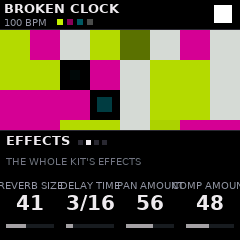
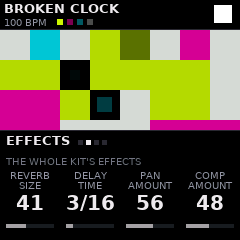
v0.7: the reverb and delay lighter; the effects pages' names on two lines
- The reverb runs at half the sample rate (it's damped well below that's top: it sounds the same), its lines half as
  long: about half its work and memory (25 KB freed). The delay the same: its line kept at half the rate (dulled to
  6.5 kHz anyway), the pair in averaged, out each new sample and the halfway point (16 KB a side freed).
- The mix no longer does what isn't needed: the punch-in filters run only while their key is down or fading (from
  rest, faded in from nothing: no click), PAN's movement only for the parts sent to it.
- Simulator, 6 s of a groove: dry 548 M -> 462 M instructions; every part sent to both 868 M -> 638 M.
- EFFECTS and TYPES: each knob's name on two lines (REVERB above SIZE...).
- render: SEND=-1,... sends every part.

Claude-Session: https://claude.ai/code/session_01BZyVyPz8sguYwRVQyNrSw4

diff --git a/app/dsp/engine.c b/app/dsp/engine.c
@@ -62,7 +62,7 @@ void engine_init(Engine *e, Groove *g)
     e->cmp_g = 1.0f; e->kill_g = 1.0f; e->gov = 1.0f;
     e->ai_ground = e->ai_light = -1;
     e->midi_ch = 9;
-    for (int c = 0; c < 2; c++) { svf_set(&e->plp[c], 18000.0f, 0.7f); svf_set(&e->php[c], 20.0f, 0.7f); op_set(&e->dlp[c], 6500.0f); op_set(&e->plp1[c], 18000.0f); }
+    for (int c = 0; c < 2; c++) { svf_set(&e->plp[c], 18000.0f, 0.7f); svf_set(&e->php[c], 20.0f, 0.7f); op_set(&e->dlp[c], 6500.0f * 2.0f);   /* (run at half the rate) */ op_set(&e->plp1[c], 18000.0f); }
     e->lp_c = e->hp_c = 0;
     e->dg_rate = e->dg_rate_t = 1.0f;
     e->smash = g->comp_t == CT_SMASH ? 1.0f : 0.0f;
@@ -599,11 +599,24 @@ void engine_block_reverb(Engine *e)
     int n = e->nblk;
     uint32_t c0 = e->clock ? e->clock() : 0;
     if (!e->rv_fed && e->rv_quiet > 8) {
-        if (e->rv_quiet == 9) { memset(e->rv_out, 0, sizeof e->rv_out); e->rv_quiet++; }
+        if (e->rv_quiet == 9) { memset(e->rv_out, 0, sizeof e->rv_out); e->rv_last[0] = e->rv_last[1] = 0; e->rv_quiet++; }
         e->rv_cost = 0;
         return;
     }
-    reverb_run(&e->rv, e->rv_in[0], e->rv_in[1], e->rv_out[0], e->rv_out[1], n);
+    {   /* at half the rate: each pair of samples in averaged, each one out followed by the halfway point to the next
+         * (half a sample late, unheard in a room) */
+        int h = n >> 1;
+        for (int k = 0; k < h; k++) {
+            e->rv_h[0][k] = 0.5f * (e->rv_in[0][2 * k] + e->rv_in[0][2 * k + 1]);
+            e->rv_h[1][k] = 0.5f * (e->rv_in[1][2 * k] + e->rv_in[1][2 * k + 1]);
+        }
+        reverb_run(&e->rv, e->rv_h[0], e->rv_h[1], e->rv_h[2], e->rv_h[3], h);
+        for (int c = 0; c < 2; c++) {
+            float prev = e->rv_last[c]; const float *y = e->rv_h[2 + c]; float *o = e->rv_out[c];
+            for (int k = 0; k < h; k++) { o[2 * k] = 0.5f * (prev + y[k]); o[2 * k + 1] = y[k]; prev = y[k]; }
+            e->rv_last[c] = prev;
+        }
+    }
     float mx = 0; for (int i = 0; i < n; i++) mx = fm_maxf(mx, fm_fabsf(e->rv_out[0][i]) + fm_fabsf(e->rv_out[1][i]));
     if (e->rv_fed || mx > 2e-5f) e->rv_quiet = 0; else if (e->rv_quiet < 9) e->rv_quiet++;
     if (e->clock) e->rv_cost = (float)(e->clock() - c0);
@@ -617,11 +630,11 @@ static float dly_samples(const Engine *e, int idx)
     return s < 4.0f ? 4.0f : s;
 }
 
-static inline float dl_read(const int16_t *b, int w, float d)
+static inline float dl_read(const int16_t *b, int w, float d)   /* (d in the sample rate's samples; the line at half) */
 {
-    float rp = (float)w - d; while (rp < 0) rp += (float)DLY_BUF;
-    int i0 = (int)rp; float fr = rp - (float)i0; if (i0 >= DLY_BUF) i0 -= DLY_BUF;
-    int i1 = i0 + 1; if (i1 >= DLY_BUF) i1 = 0;
+    float rp = (float)w - d * 0.5f; while (rp < 0) rp += (float)DLY_H;
+    int i0 = (int)rp; float fr = rp - (float)i0; if (i0 >= DLY_H) i0 -= DLY_H;
+    int i1 = i0 + 1; if (i1 >= DLY_H) i1 = 0;
     return from16(b[i0]) + (from16(b[i1]) - from16(b[i0])) * fr;
 }
 
@@ -743,11 +756,13 @@ void engine_block_mix(Engine *e, float *outL, float *outR)
             if (e->pg[p] <= 0) e->pg[p] = pgt[p];
             e->pg[p] += (pgt[p] - e->pg[p]) * kb;
             float x0 = (p == P_KICK ? kL : e->P[p].bus[0][i]) * e->pg[p], x1 = (p == P_KICK ? kR : e->P[p].bus[1][i]) * e->pg[p];
-            float pm = 0;                         /* PAN: each part moved across the field */
-            if (g->pan_t == PT_SWEEP) pm = sine_c(e->pan_ph + (float)p * 0.31f) * 0.9f;
-            else if (g->pan_t == PT_SPIN) pm = sine_c(e->pan_spin + (float)p * 0.25f) * 0.9f;
-            float a = e->lev_pan * span[p];
-            e->pan_now[p] += (pm * a - e->pan_now[p]) * 0.002f;
+            float pm = 0, a = e->lev_pan * span[p];   /* PAN: each part moved across the field (not sent: nothing to do) */
+            if (a > 0 || e->pan_now[p] != 0) {
+                if (g->pan_t == PT_SWEEP) pm = sine_c(e->pan_ph + (float)p * 0.31f) * 0.9f;
+                else if (g->pan_t == PT_SPIN) pm = sine_c(e->pan_spin + (float)p * 0.25f) * 0.9f;
+                e->pan_now[p] += (pm * a - e->pan_now[p]) * 0.002f;
+                if (a <= 0 && fm_fabsf(e->pan_now[p]) < 1e-4f) e->pan_now[p] = 0;
+            }
             if (fm_fabsf(e->pan_now[p]) > 0.0005f) {
                 float m = (x0 + x1) * 0.5f, th = (0.5f + 0.5f * clampf(e->pan_now[p], -1.0f, 1.0f)) * 0.25f, w = fm_fabsf(e->pan_now[p]);   /* (th in turns) */
                 x0 = x0 * (1.0f - w) + m * w * sine_c(th + 0.25f) * 1.41f; x1 = x1 * (1.0f - w) + m * w * sine_c(th) * 1.41f;
@@ -833,25 +848,32 @@ void engine_block_mix(Engine *e, float *outL, float *outR)
             if (!g->glitch && fm_fabsf(want - e->dt_b) > 1.0f && e->dxf >= 1.0f) { e->dt_a = e->dt_b; e->dt_b = want; e->dxf = 0; }
             if (e->dxf < 1.0f) e->dxf = fm_minf(1.0f, e->dxf + 1.0f / (0.004f * SR));
             float o[2];
+            if (!(i & 1)) { e->dl_hin = dsum; o[0] = e->dl_ho[0]; o[1] = e->dl_ho[1]; }   /* (at half the rate: each second
+                                                  * sample the pair in averaged, the line read and written; out, each
+                                                  * new sample and the halfway point to it) */
+            else {
+            float din = 0.5f * (e->dl_hin + dsum), h[2];
             if (e->dly_t_now == DT_GRAIN) {
                 float gl = clampf(e->dt_b * 0.5f, 600.0f, 4000.0f);   /* a grain: half the time, 14 to 90 ms */
-                e->dg_ph += 1.0f / gl;
+                e->dg_ph += 2.0f / gl;                /* (two samples a step) */
                 if (e->dg_ph >= 1.0f) { e->dg_ph -= 1.0f; e->dg_rate = grain_rate(e); }
                 float phb = e->dg_ph + 0.5f; if (phb >= 1.0f) phb -= 1.0f;
-                if (phb < 1.0f / gl) e->dg_rate_t = grain_rate(e);   /* (the second head's new grain) */
+                if (phb < 2.0f / gl) e->dg_rate_t = grain_rate(e);   /* (the second head's new grain) */
                 float wa = sine_c(e->dg_ph * 0.5f), wb = sine_c(phb * 0.5f); wa *= wa; wb *= wb;   /* (sin^2: the two sum to one) */
                 float da = clampf(e->dt_b + (1.0f - e->dg_rate) * e->dg_ph * gl, 8.0f, (float)(DLY_BUF - 16));
                 float db = clampf(e->dt_b + (1.0f - e->dg_rate_t) * phb * gl, 8.0f, (float)(DLY_BUF - 16));
-                for (int c = 0; c < 2; c++) o[c] = dl_read(e->dl[c], e->dw, da) * wa + dl_read(e->dl[c], e->dw, db) * wb;
+                for (int c = 0; c < 2; c++) h[c] = dl_read(e->dl[c], e->dw, da) * wa + dl_read(e->dl[c], e->dw, db) * wb;
             } else if (e->dxf >= 1.0f)
-                for (int c = 0; c < 2; c++) o[c] = dl_read(e->dl[c], e->dw, e->dt_b);
+                for (int c = 0; c < 2; c++) h[c] = dl_read(e->dl[c], e->dw, e->dt_b);
             else
-                for (int c = 0; c < 2; c++) { float a = dl_read(e->dl[c], e->dw, e->dt_a); o[c] = a + (dl_read(e->dl[c], e->dw, e->dt_b) - a) * e->dxf; }
+                for (int c = 0; c < 2; c++) { float a = dl_read(e->dl[c], e->dw, e->dt_a); h[c] = a + (dl_read(e->dl[c], e->dw, e->dt_b) - a) * e->dxf; }
             float dirt = e->dly_t_now == DT_GRAIN ? 1.0f : 0.0f;
-            float w0 = op_lp(&e->dlp[0], dsum + o[1] * dfb), w1 = op_lp(&e->dlp[1], o[0] * dfb);
+            float w0 = op_lp(&e->dlp[0], din + h[1] * dfb), w1 = op_lp(&e->dlp[1], h[0] * dfb);
             if (dirt > 0) { w0 = soft_clip(w0 * 2.2f) * 0.6f; w1 = soft_clip(w1 * 2.2f) * 0.6f; }
             e->dl[0][e->dw] = to16(soft_clip(w0)); e->dl[1][e->dw] = to16(soft_clip(w1));
-            if (++e->dw >= DLY_BUF) e->dw = 0;
+            if (++e->dw >= DLY_H) e->dw = 0;
+            for (int c = 0; c < 2; c++) { o[c] = 0.5f * (e->dl_ho[c] + h[c]); e->dl_ho[c] = h[c]; }
+            }
             e->lev_dly += (t_dly - e->lev_dly) * kb;
             float dg = e->lev_dly * e->dly_dip * 1.1f;
             outL[i] += o[0] * dg; outR[i] += o[1] * dg;
@@ -1037,17 +1059,25 @@ void engine_block_mix(Engine *e, float *outL, float *outR)
             e->hp_c += clampf((hpw > 0 ? 1.0f : 0.0f) - e->hp_c, -st, st);
             if (lpw > 0) e->lp_d += (clamp01(lpw - 1.0f) - e->lp_d) * 0.002f;
             if (hpw > 0) e->hp_d += (clamp01(hpw - 1.0f) - e->hp_d) * 0.002f;
-            if ((e->pf_cnt++ & 7) == 0) {
-                float fl = 1500.0f * fm_exp2f(-2.0f * e->lp_d), fh = 350.0f * fm_exp2f(2.0f * e->hp_d);
-                for (int c = 0; c < 2; c++) { svf_set_res(&e->plp[c], fl, 0.65f); op_set(&e->plp1[c], fl); svf_set_res(&e->php[c], fh, 0.9f); }
-            }
-            for (int c = 0; c < 2; c++) {         /* (in series: each filter run once a sample) */
-                float l = svf_lp(&e->plp[c], y[c]) * 0.7f + op_lp(&e->plp1[c], y[c]) * 0.3f;   /* (the low-pass's slope a gentle
-                                                  * one: about 9 dB an octave, no bump at its corner) */
-                y[c] += (l - y[c]) * e->lp_c;
-                float hh = svf_hp(&e->php[c], y[c]);
-                y[c] += (hh - y[c]) * e->hp_c;
-            }
+            int lon = e->lp_c > 0 || lpw > 0, hon = e->hp_c > 0 || hpw > 0;   /* (each runs only while its key is down or
+                                                  * fading: started from rest, faded in over 25 ms from nothing, it never
+                                                  * clicks) */
+            if (lon || hon) {
+                if ((e->pf_cnt++ & 7) == 0) {
+                    float fl = 1500.0f * fm_exp2f(-2.0f * e->lp_d), fh = 350.0f * fm_exp2f(2.0f * e->hp_d);
+                    for (int c = 0; c < 2; c++) { svf_set_res(&e->plp[c], fl, 0.65f); op_set(&e->plp1[c], fl); svf_set_res(&e->php[c], fh, 0.9f); }
+                }
+                for (int c = 0; c < 2; c++) {     /* (in series: each filter run once a sample) */
+                    if (lon) {
+                        float l = svf_lp(&e->plp[c], y[c]) * 0.7f + op_lp(&e->plp1[c], y[c]) * 0.3f;   /* (the low-pass's slope a
+                                                  * gentle one: about 9 dB an octave, no bump at its corner) */
+                        y[c] += (l - y[c]) * e->lp_c;
+                    }
+                    if (hon) { float hh = svf_hp(&e->php[c], y[c]); y[c] += (hh - y[c]) * e->hp_c; }
+                }
+            } else e->pf_cnt = 0;                 /* (from rest: its settings worked out at the first sample) */
+            if (!lon && e->plp[0].ic1 != 0) for (int c = 0; c < 2; c++) { e->plp[c].ic1 = e->plp[c].ic2 = 0; e->plp1[c].z = 0; }
+            if (!hon && e->php[0].ic1 != 0) for (int c = 0; c < 2; c++) e->php[c].ic1 = e->php[c].ic2 = 0;
         }
         if (!e->pu_frozen || e->pu_rel) { /* (the memory recording again once let go) */ }
         if (!e->pu_frozen) { e->pw = (e->pw + 1) % PUNCH_BUF; if (e->rec_since < PUNCH_BUF) e->rec_since++; }

diff --git a/app/dsp/engine.h b/app/dsp/engine.h
@@ -36,7 +36,9 @@ typedef struct {
 
 /* the room's memory: the gated room's pre-delay, the reversed room's two chunks */
 #define ROOM_BUF 8192
-#define DLY_BUF 16384                    /* the delay: each side's line (0.37 s) */
+#define DLY_BUF 16384                    /* the delay: each side's line (0.37 s), counted in the sample rate's samples */
+#define DLY_H (DLY_BUF / 2)              /* (kept at half the rate: its tone is dulled to 6.5 kHz anyway, so it sounds the
+                                          * same; half the work and half the memory) */
 #define PUNCH_BUF 16384                  /* the punch-ins' memory: the last 0.37 s, stereo (an eighth down to 82 BPM) */
 
 enum { PU_NONE, PU_LPF, PU_FILL, PU_REP8, PU_REP16, PU_REP32, PU_GLITCH, PU_PDOWN, PU_PUP, PU_MASH, PU_REVERSE,
@@ -59,10 +61,10 @@ struct Engine {
     int ai_ground, ai_light; int ai_ground_new, ai_light_new; float ai_act; uint32_t ai_notes;
     /* the bus */
     float sc;                            /* the kick's level: the sidechain */
-    Reverb rv; float rv_in[2][BLKN], rv_out[2][BLKN];
+    Reverb rv; float rv_in[2][BLKN], rv_out[2][BLKN], rv_h[4][BLKN / 2], rv_last[2];   /* (rv_h: its half-rate in and out) */
     int rv_fed, rv_quiet, dl_quiet; float rv_cost, cmp_gt;   /* (the reverb: fed this block; blocks it has been silent; its time) */
     int16_t room_buf[ROOM_BUF]; int room_w; float gate, gate_hold, gate_s[BLKN]; int rchunk; float room_dip, room_t_now;
-    int16_t dl[2][DLY_BUF]; int dw; float dt_a, dt_b, dxf, dfb_now, dly_dip; int dly_t_now; uint32_t dl_step;
+    int16_t dl[2][DLY_H]; int dw; float dl_hin, dl_ho[2]; float dt_a, dt_b, dxf, dfb_now, dly_dip; int dly_t_now; uint32_t dl_step;
     float dg_ph, dg_rate, dg_rate_t; OnePole dlp[2], plp1[2];
     float cmp_lvl, cmp_g, smash;         /* COMP: its level, its gain, CLEAN to TAPE SMASH (glided) */
     float pan_ph, pan_spin, pan_now[NPARTS];

diff --git a/app/app.c b/app/app.c
@@ -1132,7 +1132,16 @@ static void draw_panel_rows(int y0)
     for (int k = 0; k < 4; k++) {
         int cx = 60 * k + 30, y = y0 + 50, hot = focus && k == ui.last_knob;
         const char *nm = knob_of(pg, k)->name;
-        cv_text(cx - text_w(&FONT_XS, nm) / 2, y, &FONT_XS, nm, hot ? pc : C_SUB);
+        {   /* a name too wide for its column (REVERB SIZE...) on two lines, its first word above */
+            char w1[16]; int sp = -1;
+            for (int j = 0; nm[j] && j < 15; j++) if (nm[j] == ' ') { sp = j; break; }
+            if (sp > 0 && (text_w(&FONT_XS, nm) > 56 || pg == PG_FXBUS || pg == PG_TYPES)) {   /* (those two pages all alike) */
+                for (int j = 0; j < sp; j++) w1[j] = nm[j];
+                w1[sp] = 0;
+                cv_text(cx - text_w(&FONT_XS, w1) / 2, y - 10, &FONT_XS, w1, hot ? pc : C_SUB);
+                cv_text(cx - text_w(&FONT_XS, nm + sp + 1) / 2, y, &FONT_XS, nm + sp + 1, hot ? pc : C_SUB);
+            } else cv_text(cx - text_w(&FONT_XS, nm) / 2, y, &FONT_XS, nm, hot ? pc : C_SUB);
+        }
         char v[24]; knob_text(pg, k, v);
         int room = k < 3 && knob_of(pg, k + 1)->kind == K_NONE ? 112 : 56;
         const felucca_font_t *f = text_w(&FONT_M, v) <= room ? &FONT_M : text_w(&FONT_B, v) <= room + 2 ? &FONT_B : &FONT_XS;

diff --git a/app/dsp/fx.c b/app/dsp/fx.c
@@ -9,10 +9,10 @@ void reverb_init(Reverb *rv, float size)
     static const int apb[4] = { 142, 107, 379, 277 };
     memset(rv, 0, sizeof *rv);
     for (int i = 0; i < RV_LINES; i++) {
-        int n = (int)((float)base[i] * size); if (n >= RV_MAX) n = RV_MAX - 1; if (n < 64) n = 64;
+        int n = (int)((float)base[i] * size * (RV_RATE / SR)); if (n >= RV_MAX) n = RV_MAX - 1; if (n < 32) n = 32;
         rv->len[i] = n;
     }
-    for (int i = 0; i < 4; i++) { int n = (int)((float)apb[i] * size); if (n >= RV_AP) n = RV_AP - 1; rv->aplen[i] = n; }
+    for (int i = 0; i < 4; i++) { int n = (int)((float)apb[i] * size * (RV_RATE / SR)); if (n >= RV_AP) n = RV_AP - 1; rv->aplen[i] = n; }
     reverb_set(rv, 6.0f, 5000.0f);
 }
 
@@ -21,8 +21,8 @@ void reverb_set(Reverb *rv, float rt60, float damp_hz)
     if (fm_fabsf(rt60 - rv->rt60) < 0.05f && fm_fabsf(damp_hz - rv->damp_hz) < 20.0f) return;
     rv->rt60 = rt60; rv->damp_hz = damp_hz;
     for (int i = 0; i < RV_LINES; i++) {
-        rv->g[i] = fm_powf(10.0f, -3.0f * (float)rv->len[i] / (rt60 * SR));
-        op_set(&rv->damp[i], damp_hz);
+        rv->g[i] = fm_powf(10.0f, -3.0f * (float)rv->len[i] / (rt60 * RV_RATE));
+        op_set(&rv->damp[i], damp_hz * (SR / RV_RATE));   /* (op_set counts in SR's samples) */
     }
 }
 

diff --git a/app/tools/render.c b/app/tools/render.c
@@ -68,9 +68,10 @@ static void apply_env(Groove *g)
     { extern int engine_balance_raw; if (getenv("BALRAW")) engine_balance_raw = atoi(getenv("BALRAW")); }
     if (getenv("SEND")) {   /* (SEND=part,room,delay,pan: a part's sends, e.g. 0,40,30,50 the kick's) */
         int sp = 0, sr = 0, sd = 0, sn = 0;
-        if (sscanf(getenv("SEND"), "%d,%d,%d,%d", &sp, &sr, &sd, &sn) == 4 && sp >= 0 && sp < NPARTS) {
-            g->p[sp].s_room = (uint8_t)sr; g->p[sp].s_delay = (uint8_t)sd; g->p[sp].s_pan = (uint8_t)sn;
-        }
+        if (sscanf(getenv("SEND"), "%d,%d,%d,%d", &sp, &sr, &sd, &sn) == 4 && sp >= -1 && sp < NPARTS)   /* (-1: every part) */
+            for (int q = sp < 0 ? 0 : sp; q < (sp < 0 ? NPARTS : sp + 1); q++) {
+                g->p[q].s_room = (uint8_t)sr; g->p[q].s_delay = (uint8_t)sd; g->p[q].s_pan = (uint8_t)sn;
+            }
     }
     if (getenv("SOLO")) { int k = atoi(getenv("SOLO")); for (int p = 0; p < NPARTS; p++) if (p != k) g->p[p].level = 0; }   /* (one part alone) */
     if (getenv("DRY")) { const char *d = getenv("DRY"); if (strchr(d, 'r')) g->room = 0; if (strchr(d, 'd')) g->delay = 0; if (strchr(d, 'c')) g->comp = 0; if (strchr(d, 'p')) g->pan = 0; }   /* (r d c p: effects off) */

diff --git a/app/dsp/fx.h b/app/dsp/fx.h
@@ -8,8 +8,11 @@
 #include "dsp.h"
 
 #define RV_LINES 8
-#define RV_MAX 3200                      /* (its longest line 3119 at size 1: Expectation Reality never asks for more) */
-#define RV_AP 512
+/* Expectation Reality's runs at half the sample rate (22.05 kHz: it's damped well below that's top, so it sounds the
+ * same), its lines half as long: half the work, half the memory */
+#define RV_RATE (SR * 0.5f)
+#define RV_MAX 1600                      /* (its longest line 1559 at size 1: Expectation Reality never asks for more) */
+#define RV_AP 256
 typedef struct {
     int16_t buf[RV_LINES][RV_MAX]; int len[RV_LINES], pos[RV_LINES];
     float g[RV_LINES]; OnePole damp[RV_LINES];
@@ -18,7 +21,7 @@ typedef struct {
 } Reverb;
 void reverb_init(Reverb *rv, float size);
 void reverb_set(Reverb *rv, float rt60, float damp_hz);   /* (cheap: no clearing) */
-void reverb_run(Reverb *rv, const float *inL, const float *inR, float *outL, float *outR, int n);
+void reverb_run(Reverb *rv, const float *inL, const float *inR, float *outL, float *outR, int n);   /* (n at RV_RATE) */
 
 #define ECHO_MAX 32768                   /* 0.74 s */
 #define SMEAR_AP 4
